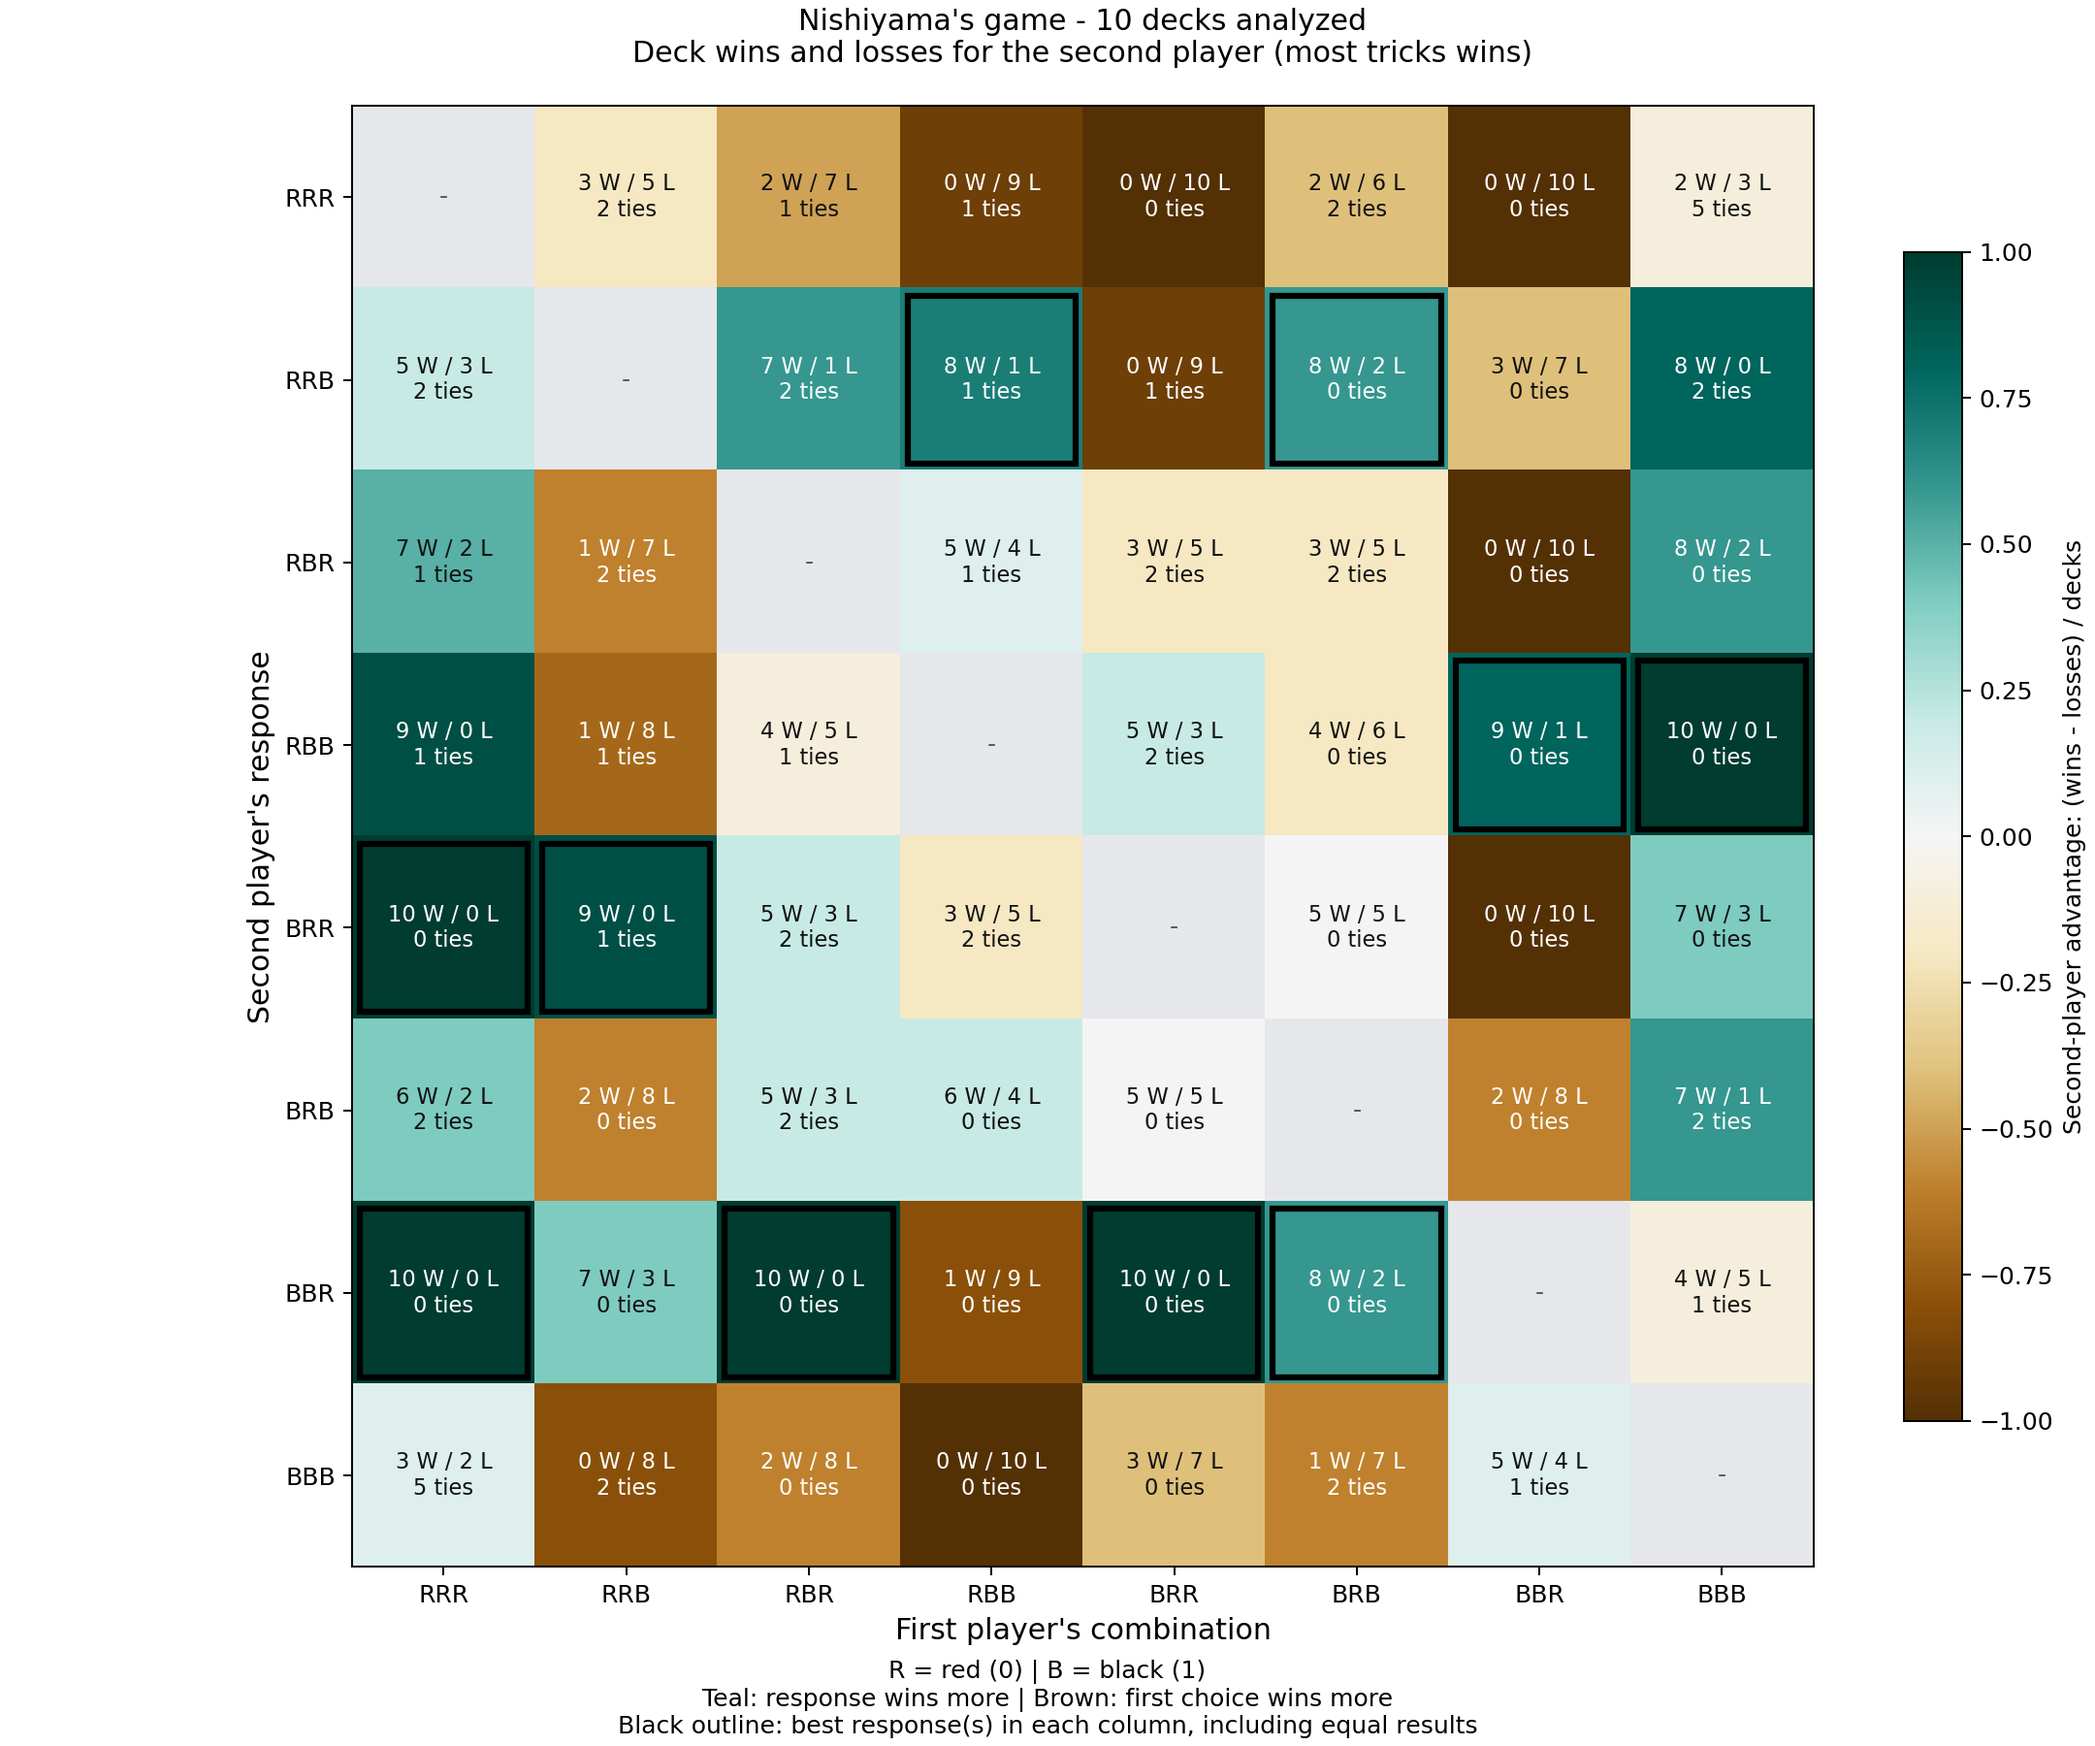
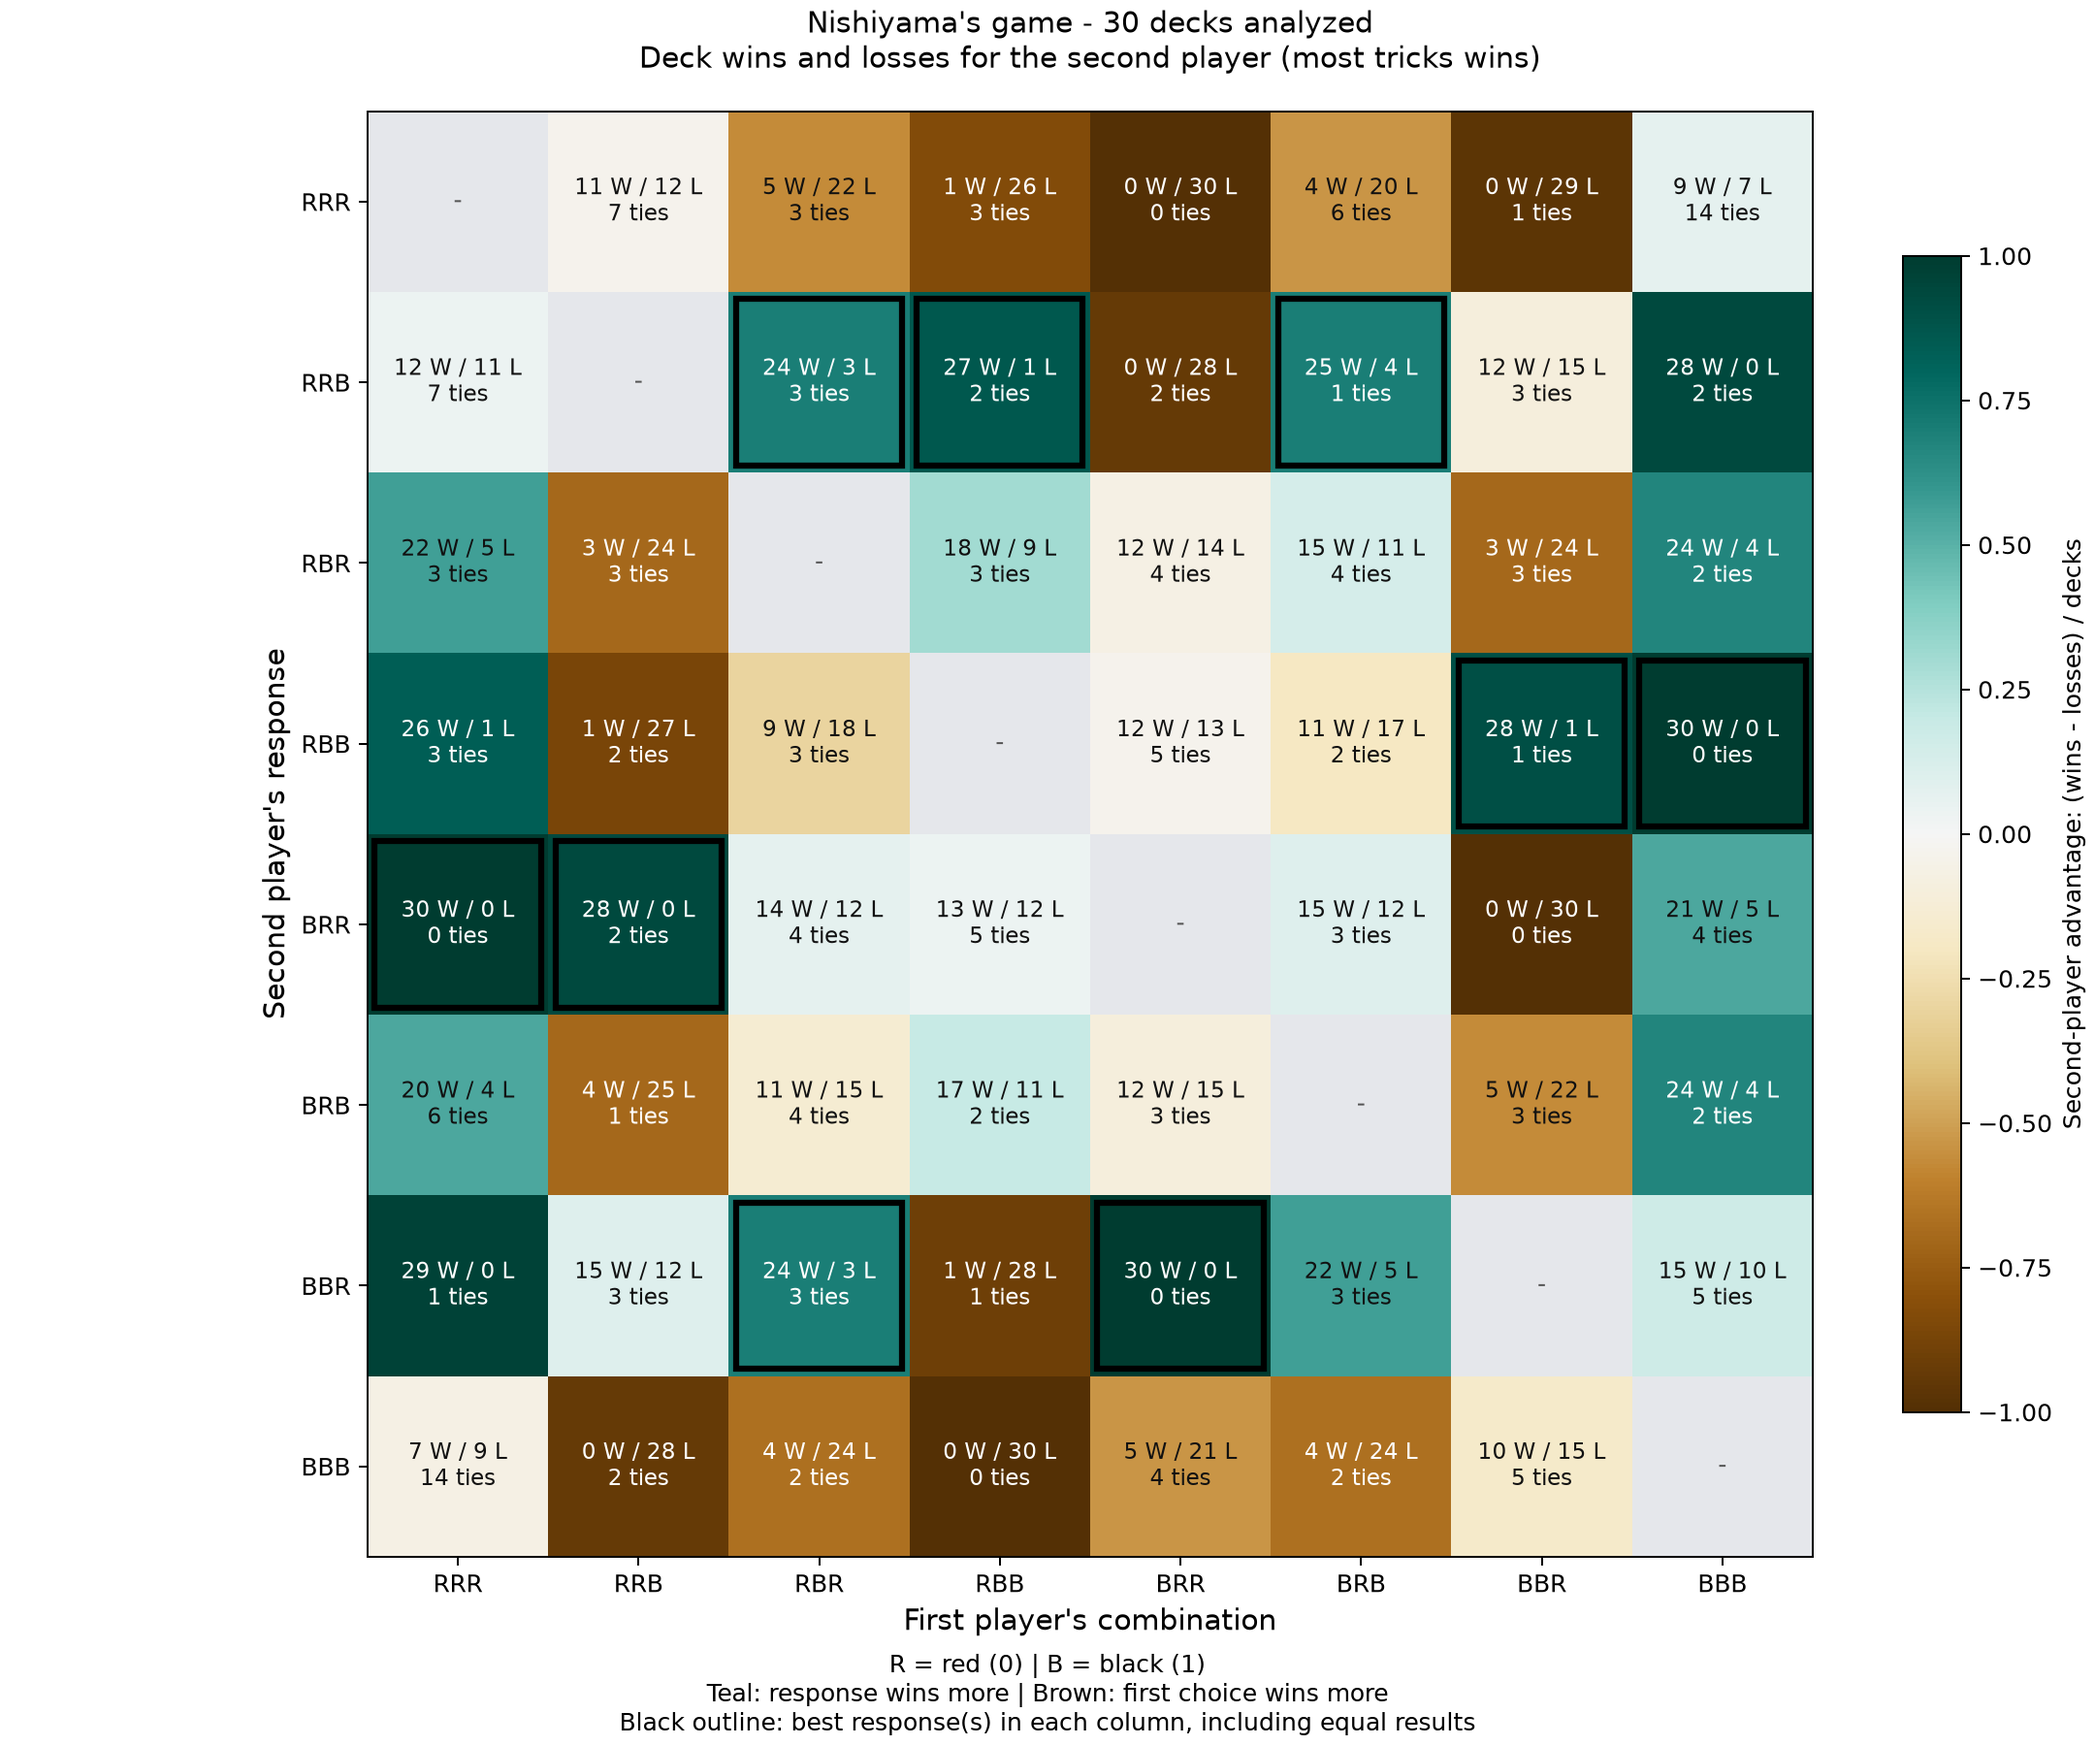
current game

diff --git a/src/dataproc.py b/src/dataproc.py
@@ -79,5 +79,3 @@ def analyze_file(filename, num_decks):
     decks = convert_to_strings(bits, num_decks)
     return count_tricks(decks), len(decks)
 
-if __name__ == "__main__":
-    main()

diff --git a/main.py b/main.py
@@ -1,6 +1,5 @@
 """Add shuffled decks and regenerate the cumulative matchup heatmap."""
 from src.datagen import main
 
-
 if __name__ == "__main__":
     main()
